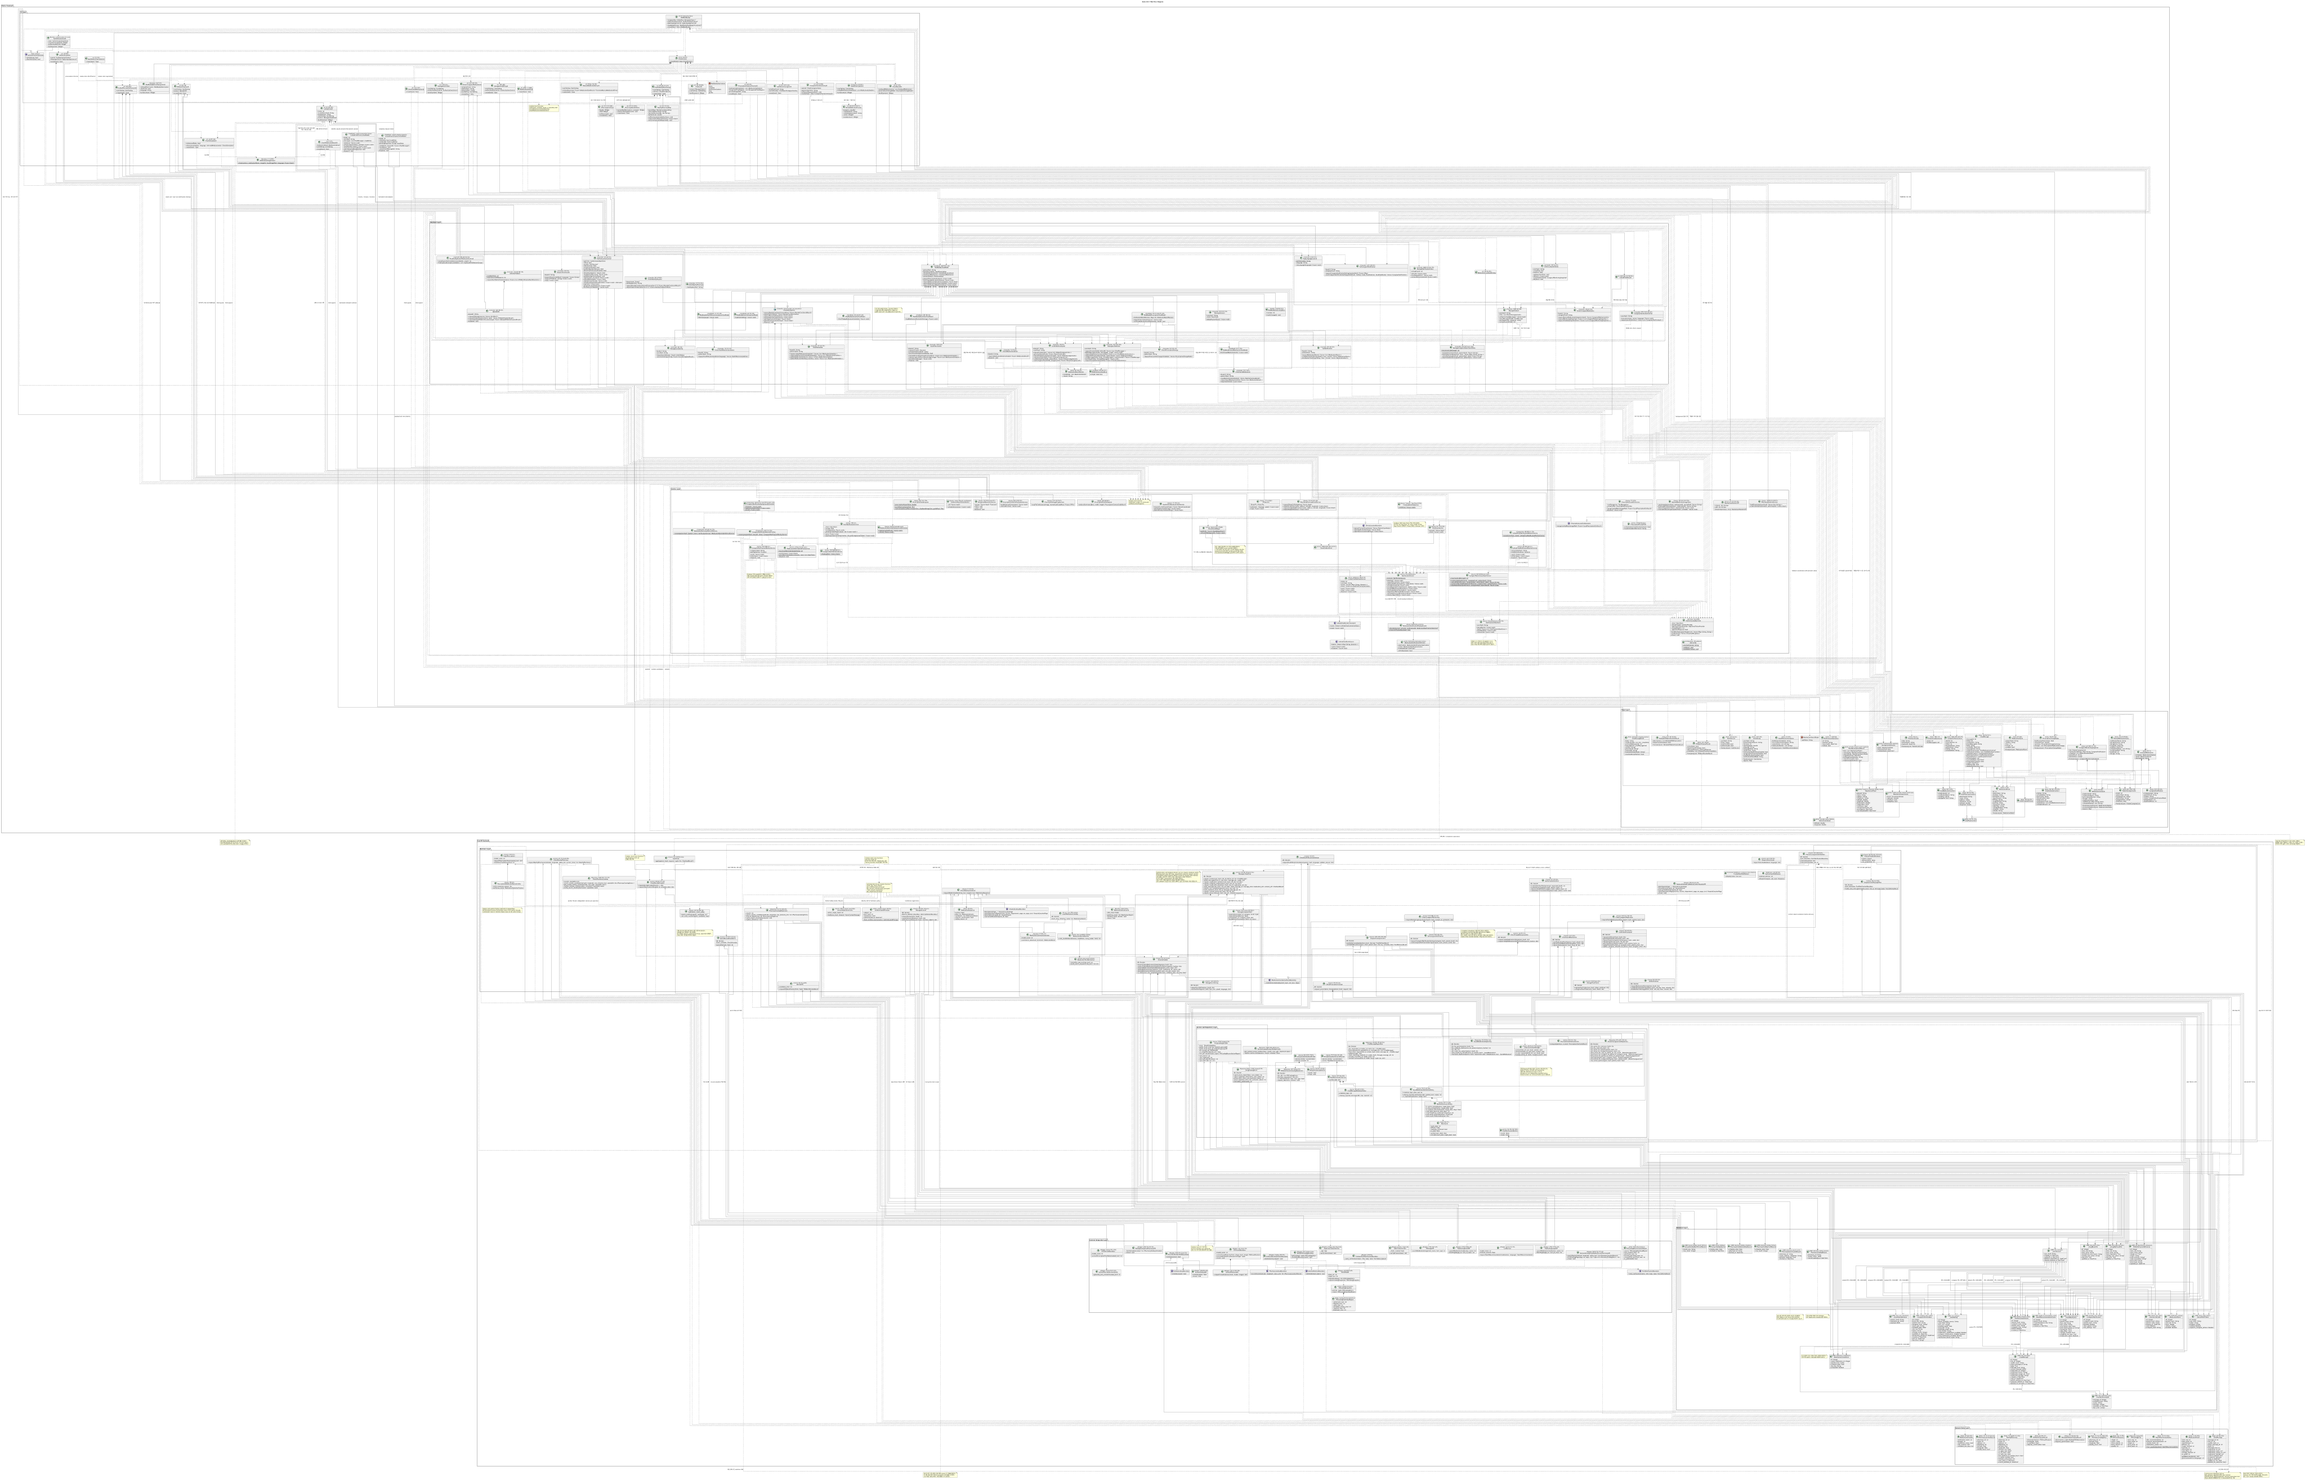
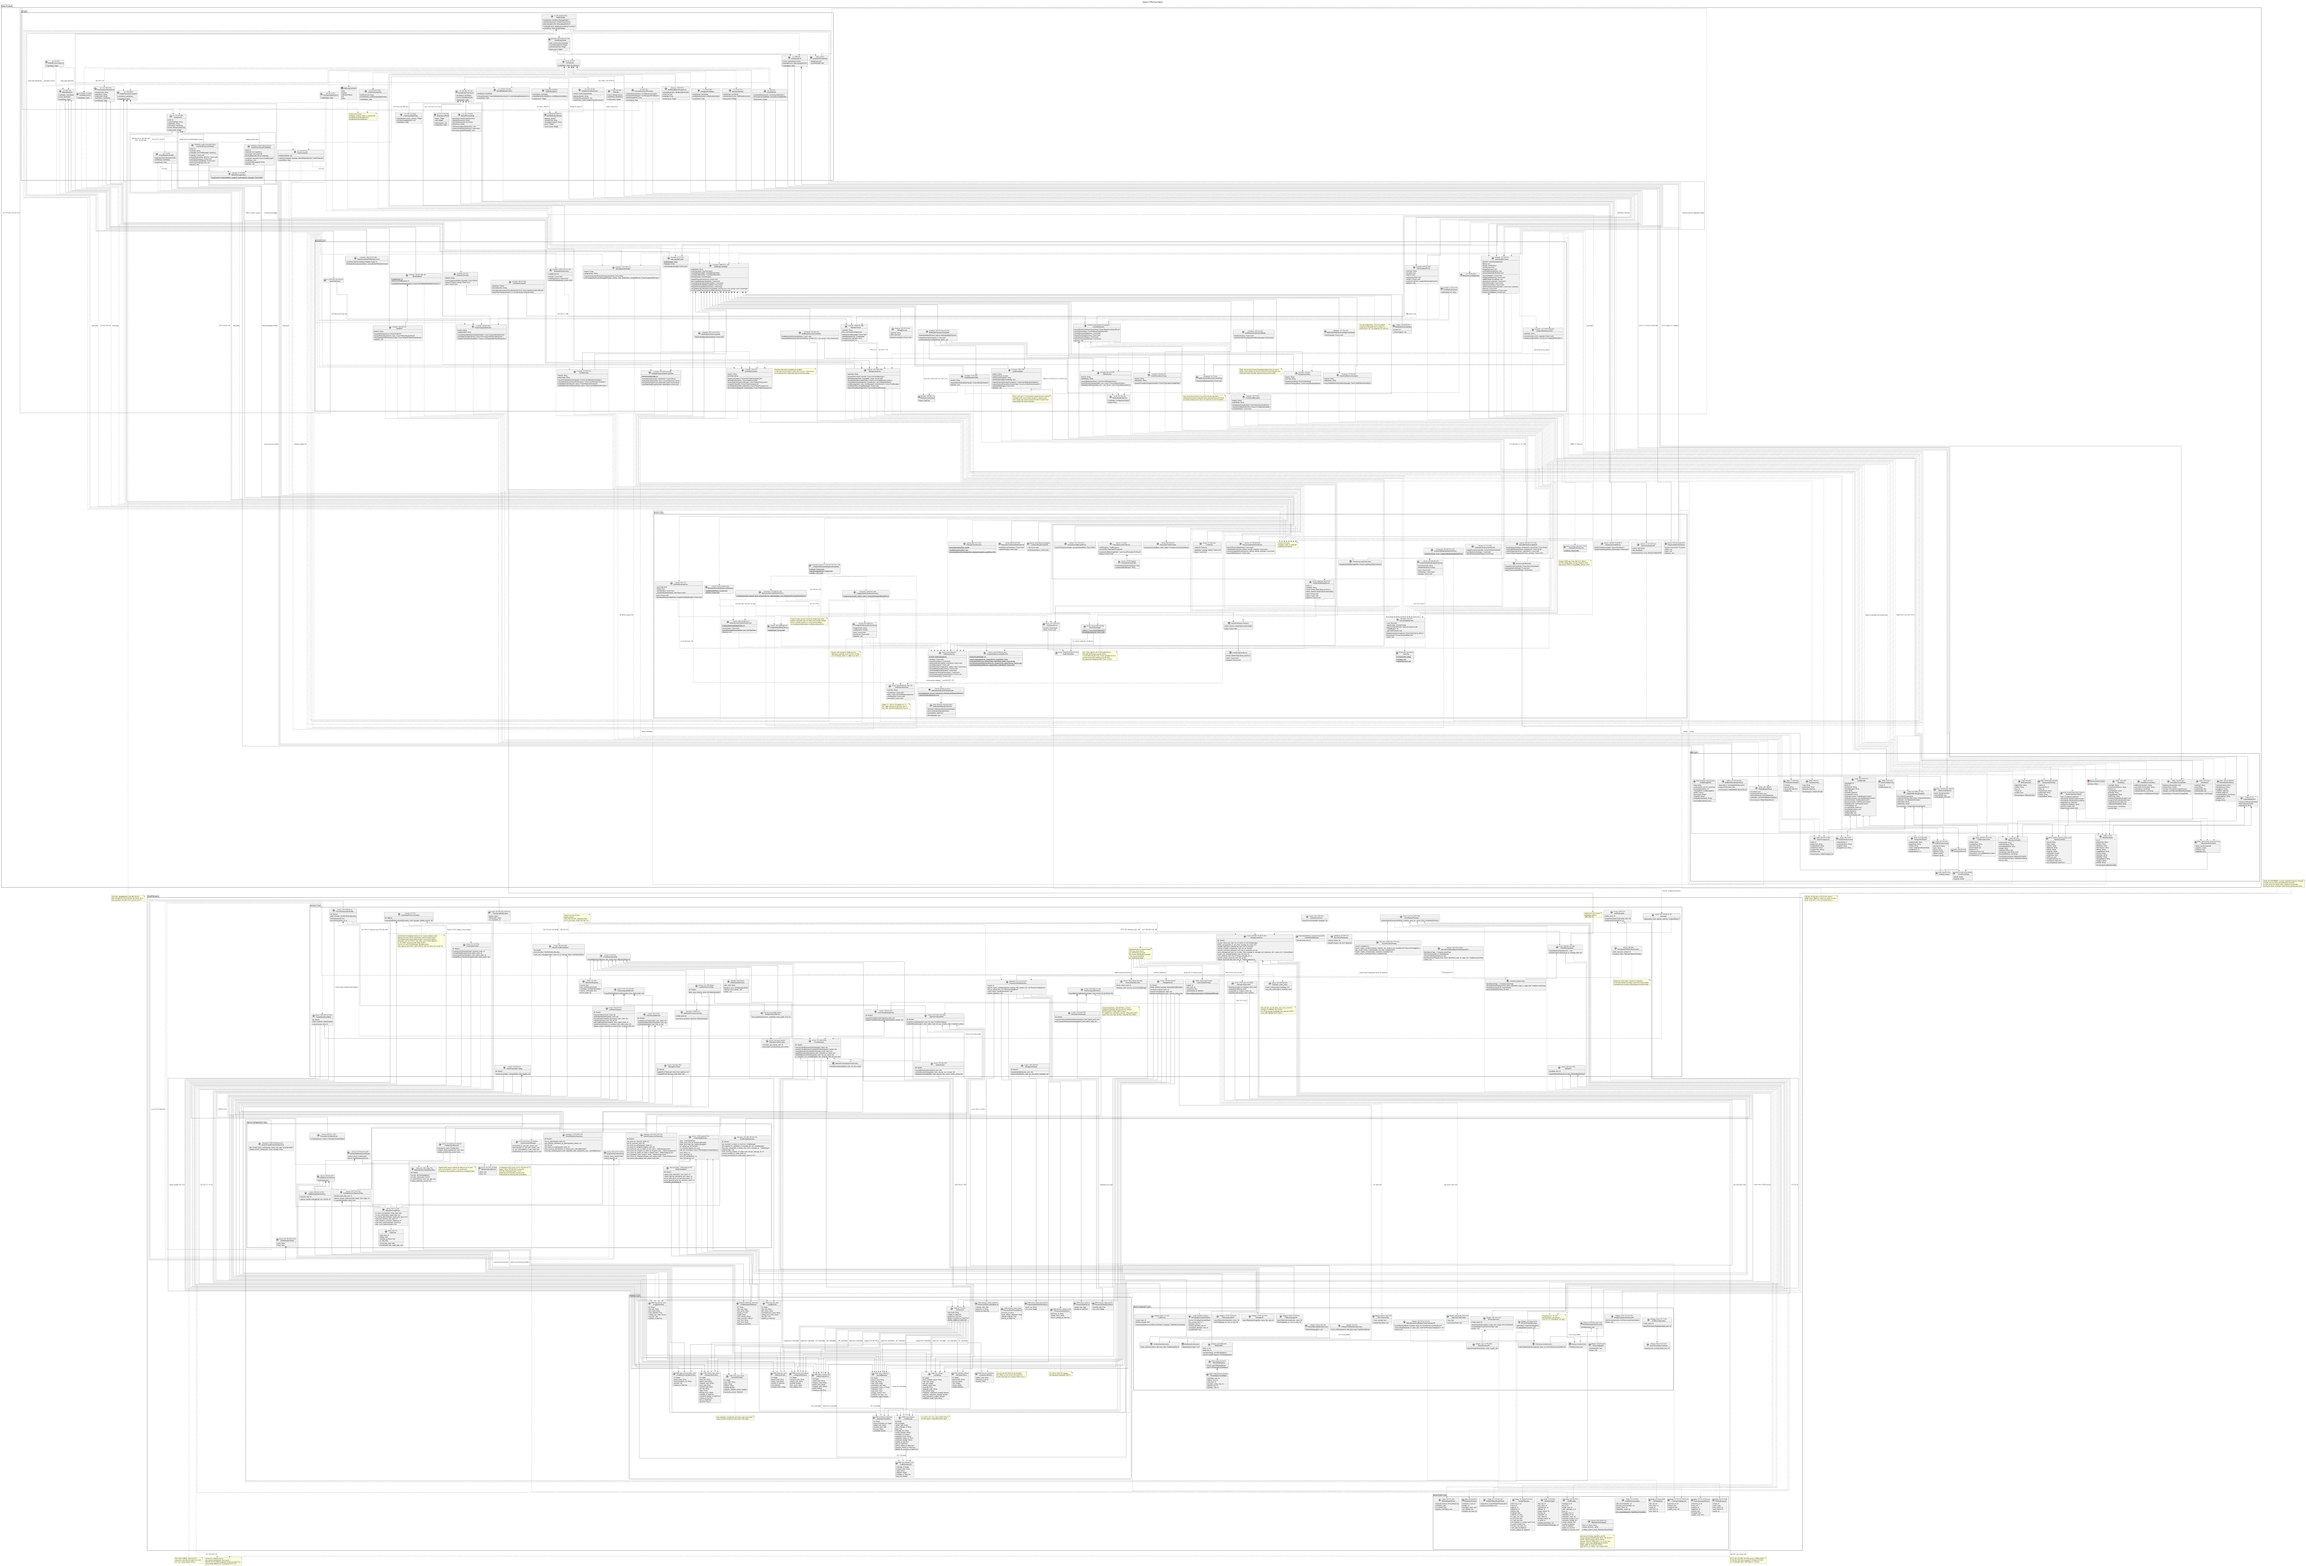
docs(uml): align reminder and session lifecycle flows

Changed region(s): [[0.0, 0.0, 1.0, 1.0], [0.0625, 0.9669, 0.125, 1.0], [0.9688, 0.5614, 1.0, 0.5926]]

diff --git a/docs/UML/usecase/UseCaseDescription.md b/docs/UML/usecase/UseCaseDescription.md
@@ -150,10 +150,13 @@ Step 5 이후, 환자 또는 보호자가 활성 연결을 해제한다. (UC-07)
 | Actor Action | System Response |
 | --- | --- |
 | 1. 환자 또는 보호자가 연결 목록에서 연결 해제를 선택한다. |  |
-|  | 2. 해제할 연결 정보와 확인 화면을 출력한다. |
+|  | 2. 상대 이름과 확인 화면을 출력한다. 복약 일정 공유 중단, 해당 연결의 보호자 알림 설정과 두 사람의 대화 기록 삭제, 삭제한 대화의 복구 불가, 환자의 약과 복약 기록 보존을 안내한다. 기본 초점은 취소에 둔다. |
 | 3. 사용자가 연결 해제를 승인한다. |  |
-|  | 4. 사용자가 연결 당사자인지 검증하고 연결과 관련 보호자 알림 설정을 해제한 후 결과를 출력한다. 해제된 연결의 환자 정보와 채팅에는 더 이상 접근할 수 없다. |
+|  | 4. 확인을 연 화면·계정·요청 세대가 여전히 유효할 때만 해제를 요청한다. 서버는 연결 당사자인지 검증하고 연결을 비활성화하며 관련 보호자 알림 설정과 두 사람의 대화 기록을 삭제한다. 환자의 약과 복약 기록은 유지한다. 해제된 연결의 환자 정보와 채팅에는 더 이상 접근할 수 없다. |
 |  | 5. 보호자 기기에서는 해제된 환자의 표시 이름과 알림 중복 방지 정보를 정리하고 연결 목록을 갱신한다. |
+
+Extensions\
+Step 2에서 취소, 뒤로가기, 확인창 바깥 누르기 또는 기본 취소 초점에서 Enter를 누르면 해제 요청 없이 닫는다. 중복 확인창과 연속 승인 입력은 중복 요청을 만들지 않는다. 확인 대기 중 계정·요청 세대가 바뀌면 이전 승인은 무효이며, 해제 응답이 늦게 도착해도 다른 계정의 화면과 로컬 상태에는 반영하지 않는다.
 
 ---
 
@@ -228,12 +231,16 @@ Extensions
 | 3. 환자가 알림 사용 여부와 시간을 편집하고 저장 버튼을 누른다. |  |
 |  | 4. 시간대별 알림 설정을 저장하고 복약 기간 안에서 다음 14일 동안의 알림을 기기에 예약한다. |
 | 5. 환자가 설정된 알림의 해제를 선택한다. 일정 설정창에서는 알림 사용을 끄고 저장한다. |  |
-|  | 6. 저장된 알림 설정을 비활성화하고 기기에 예약되었거나 이미 표시된 해당 복약 알림을 정리한다. |
+|  | 6. 저장된 알림 설정을 비활성화하고 함께 편집한 시각도 한 번에 저장한다. 기기에 예약되었거나 이미 표시된 해당 복약 알림을 정리한다. |
 |  | 7. Android에서는 주기적인 background 작업이 서버의 현재 설정과 일정을 다시 확인하여 다음 14일 동안의 알림을 보충하고, 일시적 실패 시 재시도한다. |
 
 Extensions
 
 일정의 알림 설정창에서 취소·뒤로가기·바깥 영역 선택으로 닫으면 기존 설정과 예약을 유지한다. 변경 없이 저장해도 저장·취소 요청을 보내지 않는다.
+
+해제 API는 기존 클라이언트와의 호환성을 유지한다. 본문이 없거나 빈 객체 `{}`이면 기존 시각을 보존하고, `hour`만 주면 `minute`은 `00`으로 저장한다. `minute`만 준 요청과 범위를 벗어난 시각은 거절한다. 구형 서버가 함께 보낸 시각을 반영하지 않으면 클라이언트는 시각 저장 성공으로 표시하지 않는다.
+
+알림 시각을 이미 지난 시각으로 앞당겨도 오늘 아직 울리지 않은 기존 예약은 유지한다. 저장·해제와 예약 갱신은 순서대로 적용하며, 오래된 조회 응답이나 종료된 계정의 응답으로 새 설정을 덮어쓰지 않는다. 비매일 복용 과정에서 오늘 복용할 약이 없다는 이유만으로 해당 시간대 알림 설정을 끄지 않는다.
 
 Step 4 이후, 표시된 복약 알림에서 환자가 바로 복용을 선택하면 해당 날짜·시간대의 복약을 완료 처리한다. 지난 날짜의 알림은 처리를 막고 일정 확인을 안내한다. (UC-08)
 
@@ -297,7 +304,7 @@ Step 4 이후, 미저장 변경이 있는 상태에서 뒤로가기를 누르면
 | 2. 사용자가 로그아웃 또는 계정 데이터 삭제를 선택한다. |  |
 |  | 3. 계정 데이터 삭제를 선택한 경우 삭제 범위와 확인 메시지를 출력하고, credential 기반 계정에는 최근 인증 또는 Google 재인증을 요구한다. |
 | 4. 사용자가 로그아웃을 실행하거나 계정 데이터 삭제를 승인한다. |  |
-|  | 5. 로그아웃 시 background reminder 작업과 예약된 알림을 취소하고, 인증 정보가 유효한 동안 기기 Push token을 해제한 뒤 Firebase Session을 종료한다. Push token 정리가 실패하면 Session을 유지하여 재시도할 수 있게 한다. |
+|  | 5. 로그아웃 시 인증 정보가 유효한 동안 기기 Push token을 먼저 해제한다. 성공하면 오프라인 복용 기록을 최대 4초 동안 전송 시도하고 background 전송·reminder 작업과 예약 알림을 정리한 뒤 Firebase Session을 종료한다. 미전송 기록은 같은 계정용으로 보존한다. Push token 정리가 실패하면 Session과 기존 복약 알림을 유지하여 재시도할 수 있게 한다. |
 |  | 6. 계정 삭제 시 삭제 진행 상태를 안전하게 기록하고 해당 계정의 연결에 속한 채팅을 포함한 MedBuddy 데이터를 정리한 뒤 검증된 Firebase identity를 삭제하여 삭제를 완료한다. |
 |  | 7. Firebase identity 삭제가 일시적으로 실패하면 삭제 진행 상태와 화면을 유지하여 동일 요청을 안전하게 재시도하고, 성공하면 기기 cache와 인증 Session을 정리한다. |
 

diff --git a/docs/UML/class/README.md b/docs/UML/class/README.md
@@ -1,12 +1,12 @@
 # Class Diagram Guide
 
-이 폴더에는 전체 클래스 설계와 발표용 단계별 클래스 다이어그램을 함께 관리한다.
+이 폴더에는 주요 책임과 계약을 보여주는 전체 구조 및 발표용 단계별 클래스 다이어그램을 함께 관리한다.
 같은 이름의 `.puml`은 원본 코드이고 `.png`는 발표 및 문서 확인용 렌더링 이미지다.
 
 ## Files
 
 - `ClassDiagram.puml` / `ClassDiagram.png`
-  - 전체 클래스, 속성, 관계를 포함한 상세 설계 원본이다.
+  - 주요 클래스, 속성, 관계를 포함한 상세 설계 원본이며 모든 코드 클래스의 목록은 아니다.
   - 구현 구조를 확인하거나 발표 부록에서 사용할 때 적합하다.
 - `00_SystemOverview.puml` / `00_SystemOverview.png`
   - Frontend, Backend, Database, 외부 서비스의 전체 연결 구조를 간단히 보여준다.
@@ -30,6 +30,14 @@
   - 공통 병원·약국 지도 UI와 별도 병원 조회·공휴일 확인, 서버가 검증한 채팅 공유 문맥을 보여준다.
 
 ## Usage
+
+The v0.2.2 integration updates the overall class and sequence diagrams for major
+contracts only: cancellation/session isolation, serialized settings and reminder
+writes, durable pending-dose projection, unlink confirmation, non-daily schedules,
+SQLite ID preservation and push-registration version guards. Unchanged feature
+diagrams remain focused views, not an exhaustive API inventory. Minor UI fixes
+are tracked by their regression tests rather than additional diagram nodes.
+The matching overall PNGs are rendered locally from the integrated sources.
 
 홈은 약 등록·식별, 건강 관리 추천 / 근처 운영 병원·약국, 환경설정을 2×2로 표시한다.
 병원·약국 선택창에서 탐색 대상을 고르고 병원은 진료과목과 조회 조건을 분리한다.

diff --git a/docs/MedBuddy - Beta Security Architecture.md b/docs/MedBuddy - Beta Security Architecture.md
@@ -514,7 +514,9 @@ their source but every job has `if: false`. They cannot provision or invoke
 Cloud Run, Cloud SQL, Redis, VPC, Artifact Registry, or Secret Manager resources.
 
 The following revisions established the beta security and data boundary. This
-is not the full chain; the current head is `c5e1a7f3b902` (see
+is not the full chain; the current head is `f2c8a6d4e901`, merging catalogue
+refresh state (`c5e1a7f3b902`) with SQLite resource-ID preservation and push
+registration-version guards (`d19e7c4b2a60`) without rewriting either history (see
 [Production Deployment](Production%20Deployment.md)).
 
 | Revision | Purpose |
